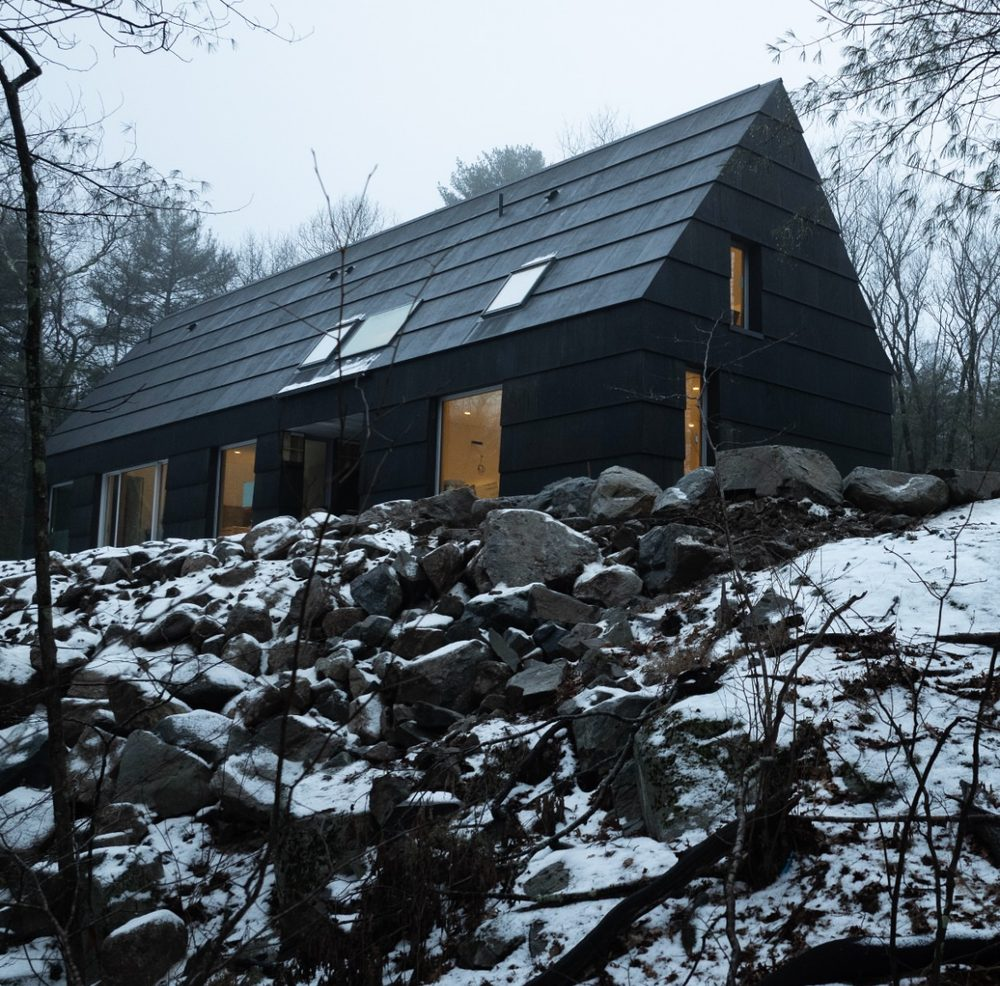
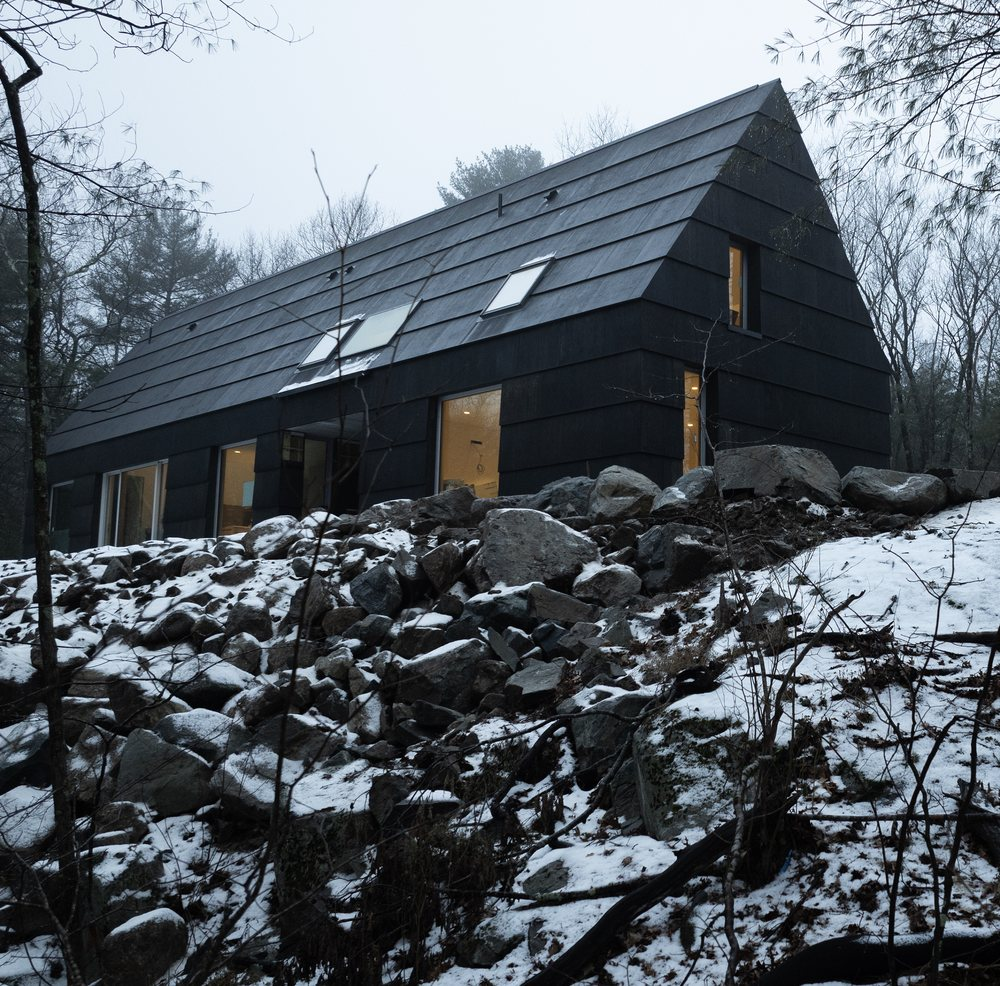
Boulder photograph re-exported at 2000 px from Motif Media's original
Claude-Session: https://claude.ai/code/session_015nVt1JmLYMDbL5UpACzd4s

diff --git a/index.html b/index.html
@@ -220,7 +220,7 @@
 
       <!-- Rocky Outcropping -->
       <figure class="full-image">
-        <img src="media/home/boulders-1170.jpg" srcset="media/home/boulders-1170.jpg 1170w, media/home/boulders-1000.jpg 1000w" sizes="(min-width: 1200px) 1200px, 100vw" width="1170" height="1154" alt="Glacial erratic boulders scattered across the hillside above the pond | Photo by Motif Media" loading="lazy">
+        <img src="media/home/boulders-2000.jpg" srcset="media/home/boulders-2000.jpg 2000w, media/home/boulders-1000.jpg 1000w" sizes="(min-width: 1200px) 1200px, 100vw" width="2000" height="1972" alt="Glacial erratic boulders scattered across the hillside above the pond | Photo by Motif Media" loading="lazy">
         <figcaption>Glacial erratic boulders became collaborators in the design | Photo by <a href="https://www.motifmedia.com/" target="_blank" rel="noopener">Motif Media</a></figcaption>
       </figure>
 
